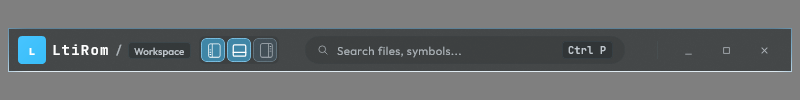
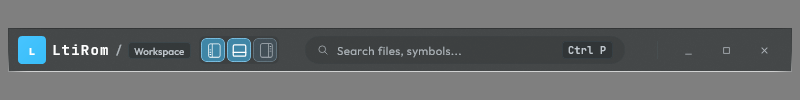
005: fix Modifier.glass drawing a spurious border in the real backdrop path
Modifier.glass's border-color resolution ("borrow glassBorderHighlight when
a rim was requested and no explicit border is set") was meant to be a
fallback-only compensation - the doc comment already said so - but the code
computed borderColor unconditionally, so it fired in the real (effects-
enabled) path too, wherever a role has rim != null and no explicit border
(GlassStyles.bar, used as-is by GlassTopBar/GlassStatusBar when they draw
their own standalone chrome). Result: an extra glassBorderHighlight stroke
drawn on top of the rim shader's own edge treatment - the old GlassTopBar/
GlassStatusBar never drew a separate border in their real path at all, only
the shader highlight.

Didn't fail any goldens outright (the stroke is thin and close in color to
the rim highlight it was drawn alongside), but it was about to make
GlassDialog visibly wrong - a full-perimeter stroke double-outlining a modal
on top of its GlassBevel rim would not have been subtle. Caught while
tracing GlassDialog's real behavior before migrating it, not by a failing
test - worth fixing before it shipped, not after.

Fixed by gating the borrow on the same `usingRealBackdrop` condition as the
background draw itself: only substitutes glassBorderHighlight in the actual
fallback branch now. GlassStyles.card is unaffected (it always sets an
explicit border, so the rim-borrow branch never applied to it either way).
Re-verified glass_top_bar/glass_status_bar goldens by eye before updating -
[…]

Changed region(s): [[0.0, 0.69, 1.0, 0.72], [0.0, 0.27, 1.0, 0.3]]

diff --git a/core/designsystem/src/commonMain/kotlin/org/ide/lti/core/designsystem/component/primitives/GlassModifiers.kt b/core/designsystem/src/commonMain/kotlin/org/ide/lti/core/designsystem/component/primitives/GlassModifiers.kt
@@ -64,18 +64,21 @@ import org.ide.lti.core.designsystem.theme.glass.toHighlight
  * When effects are disabled (globally via [GlassTheme.effectsEnabled], no backdrop is available,
  * or [enabled] is `false`), falls back to a plain surface+tint+border draw - dropping only the
  * GPU-only blur/lens/vibrancy/grain stages, per the plan's fallback contract. The rim
- * ([GlassStyle.rim]) has no non-shader equivalent, so the fallback border color prefers
- * [GlassStyle.border] when set, else borrows [GlassColorScheme.glassBorderHighlight] when a rim
- * was requested, so the edge doesn't go fully undefined.
+ * ([GlassStyle.rim]) has no non-shader equivalent, so *only in that fallback* does the border
+ * color prefer [GlassStyle.border] when set, else borrow [GlassColorScheme.glassBorderHighlight]
+ * when a rim was requested, so the edge doesn't go fully undefined - in the real backdrop path,
+ * the rim already draws its own shader edge, so an explicit [GlassStyle.border] is the only thing
+ * that adds a separate stroke there.
  */
 fun Modifier.glass(style: GlassStyle, enabled: Boolean = true, backdrop: Backdrop? = null): Modifier = composed {
     val glassColors = GlassTheme.colors
     val effectsEnabled = GlassTheme.effectsEnabled && enabled
     val resolvedBackdrop = backdrop ?: GlassTheme.backdrop
+    val usingRealBackdrop = effectsEnabled && resolvedBackdrop != null
 
     val borderColor = when {
         style.border.alpha > 0f -> style.border
-        style.rim != null -> glassColors.glassBorderHighlight
+        !usingRealBackdrop && style.rim != null -> glassColors.glassBorderHighlight
         else -> Color.Transparent
     }
     val borderModifier = if (borderColor.alpha > 0f) {
@@ -84,7 +87,7 @@ fun Modifier.glass(style: GlassStyle, enabled: Boolean = true, backdrop: Backdro
         Modifier
     }
 
-    val backgroundModifier = if (effectsEnabled && resolvedBackdrop != null) {
+    val backgroundModifier = if (usingRealBackdrop) {
         Modifier.drawBackdrop(
             backdrop = resolvedBackdrop,
             shape = { style.shape },
